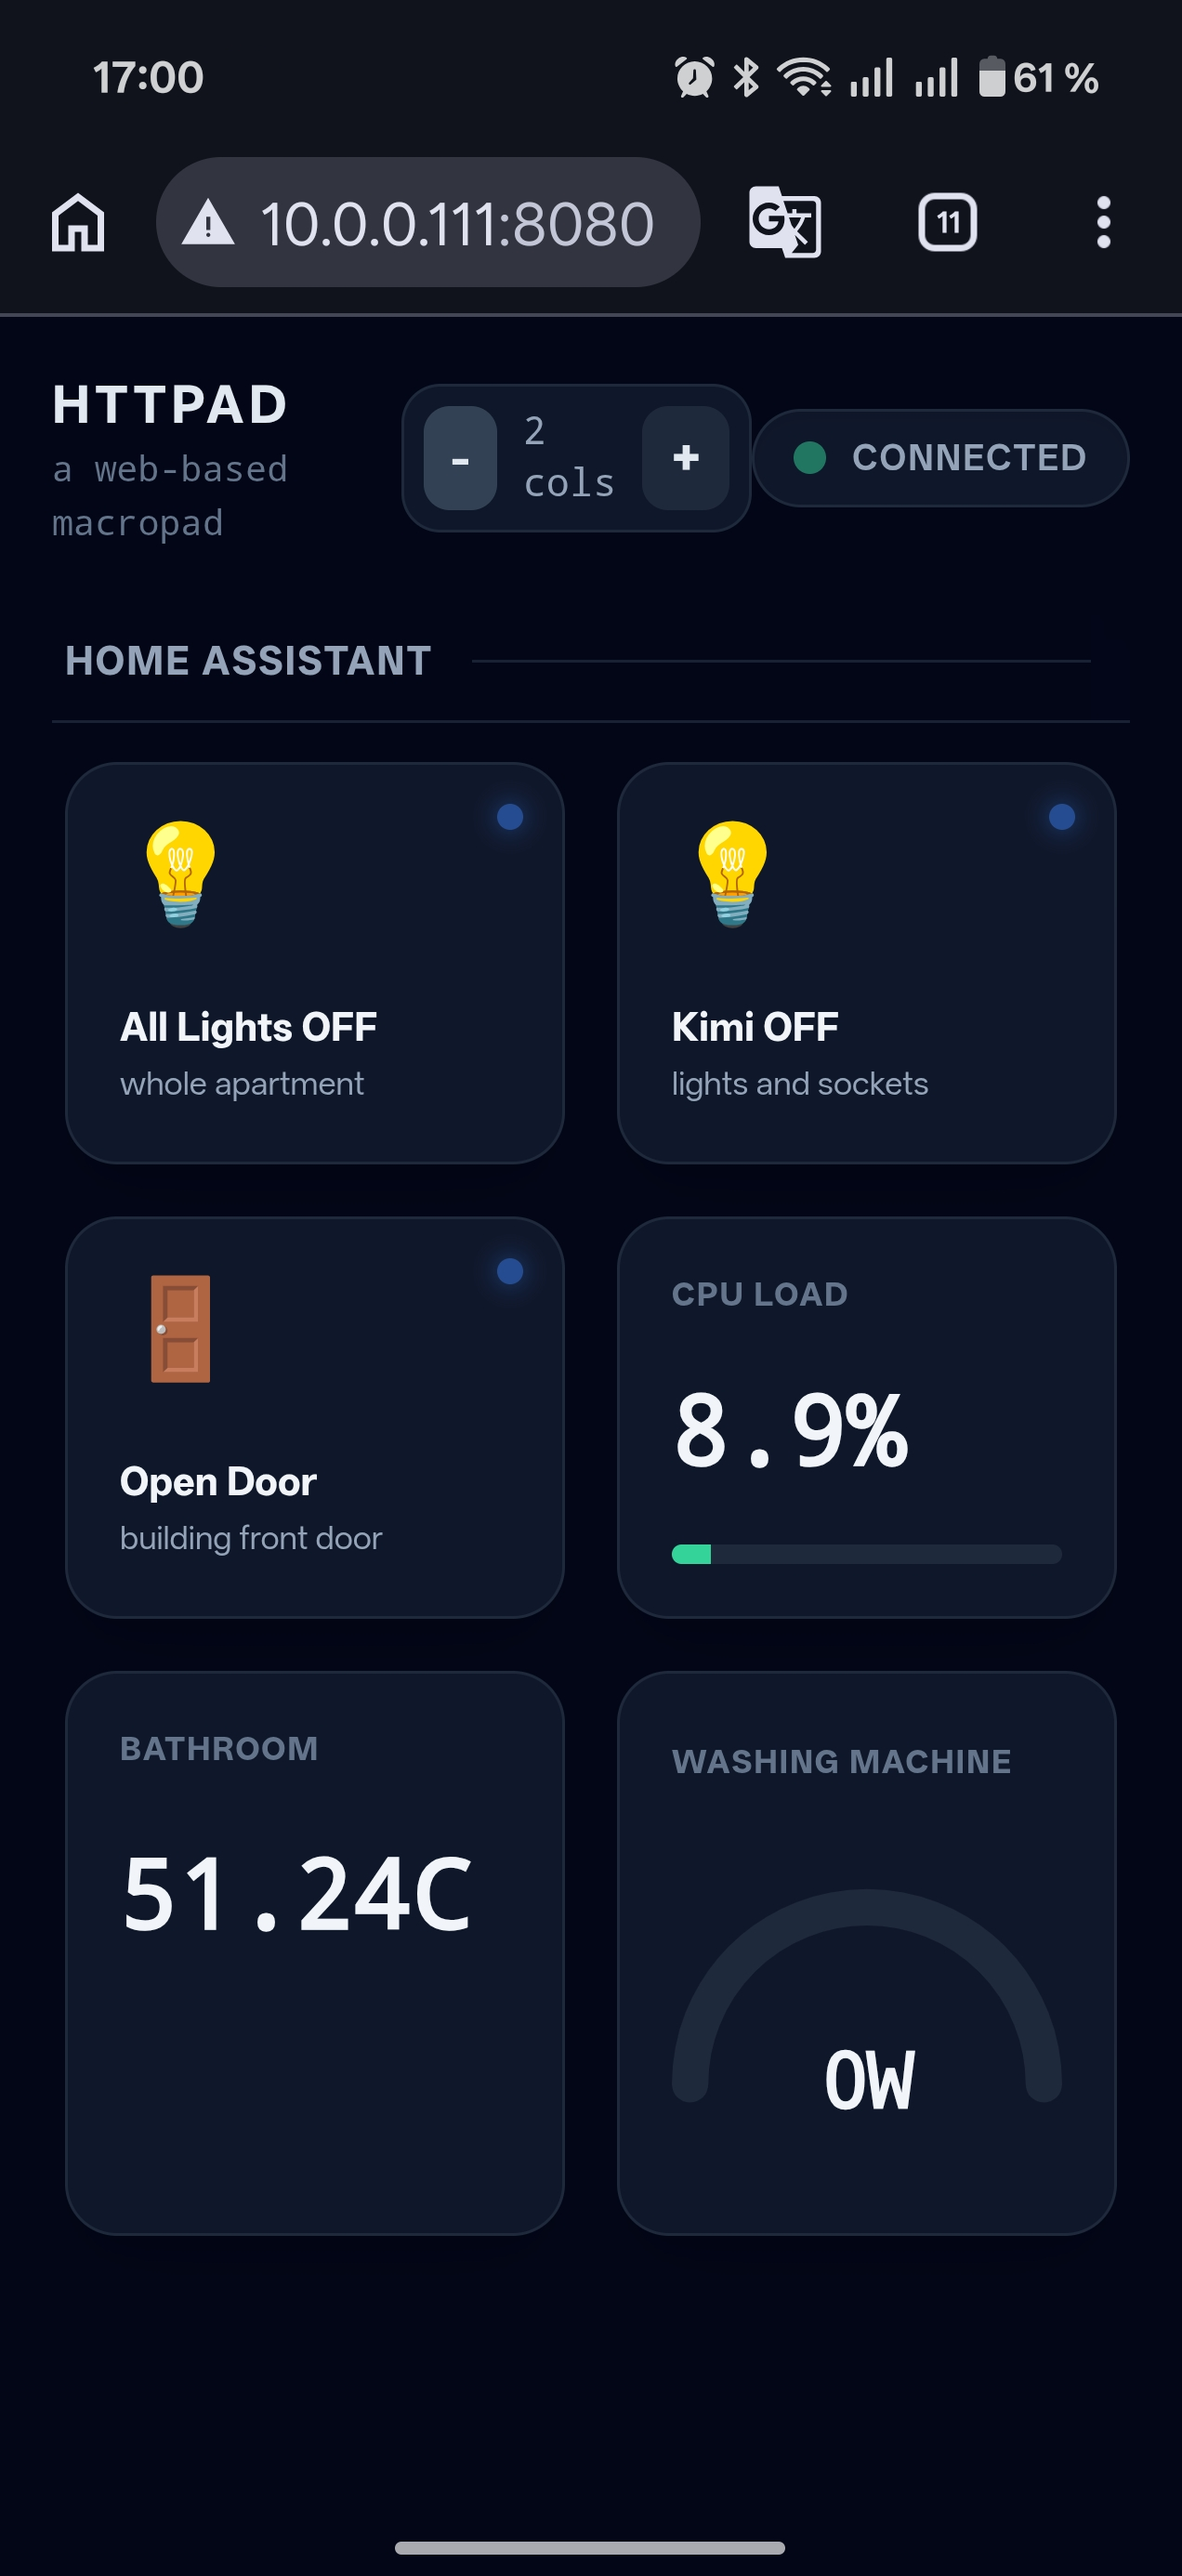
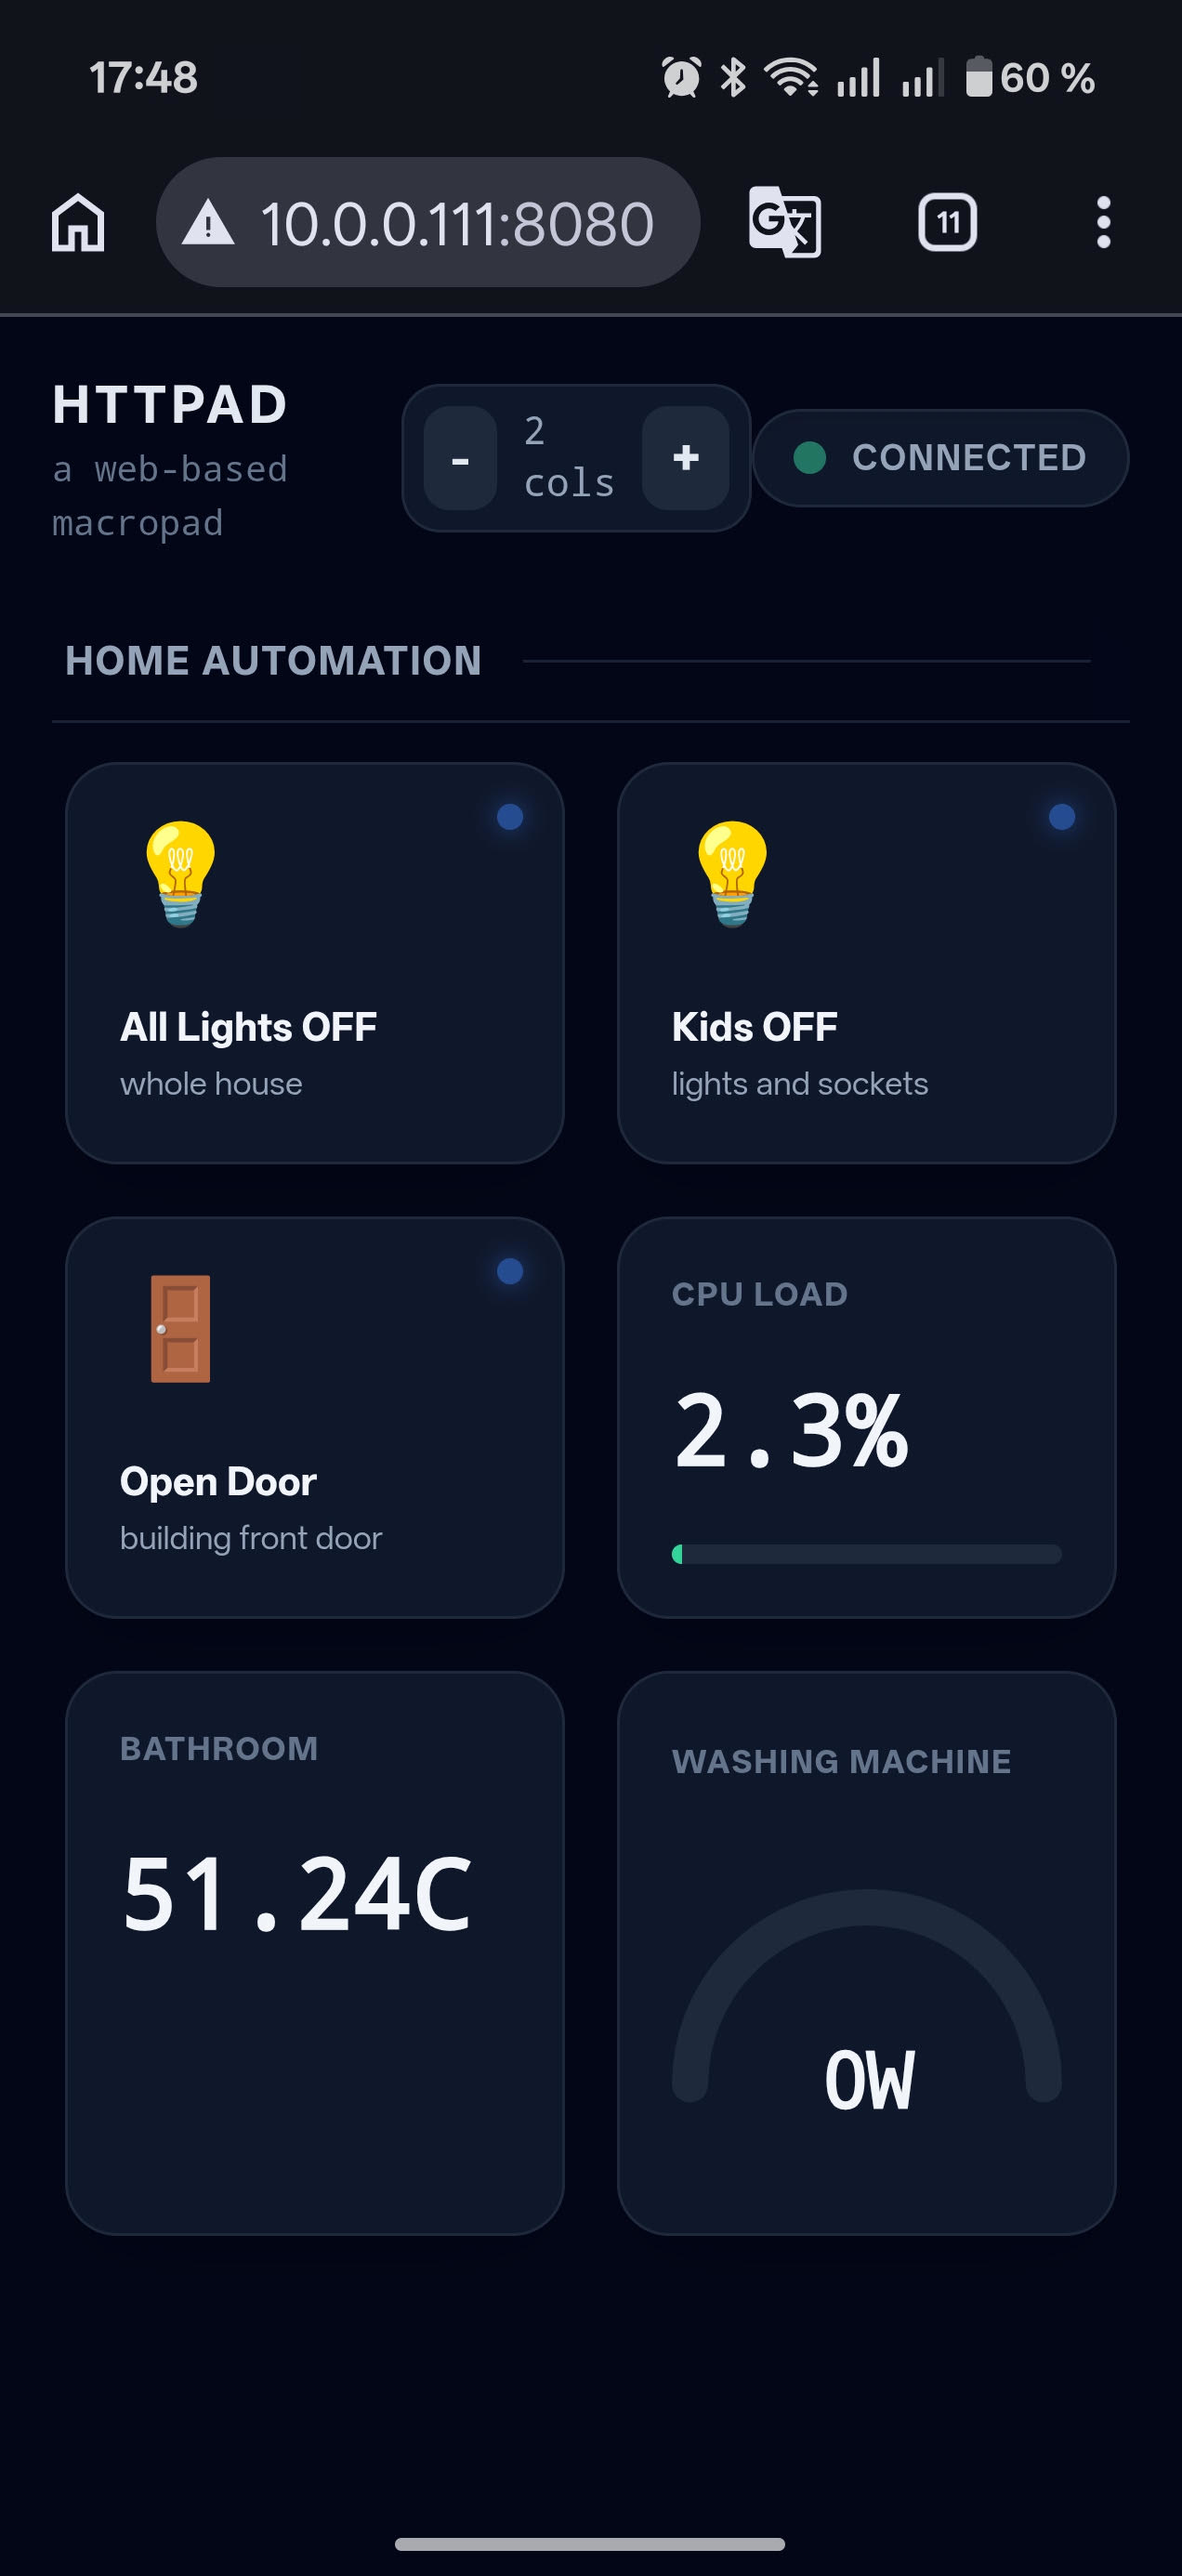
Better config example

diff --git a/README.md b/README.md
@@ -104,11 +104,11 @@ The following is an example (and just an example):
              :title "Home"
              :buttons [{:id :all-lights-off
                         :title "All Lights OFF"
-                        :desc "whole apartment"
+                        :desc "whole house"
                         :icon "💡"
                         :cmd {:type :mqtt
                               :topic "macro/all-lights-off"}}
-                       {:id :all-kimi-off
+                       {:id :all-kids-off
                         :title "Kids OFF"
                         :desc "lights and sockets"
                         :icon "💡"
@@ -116,7 +116,7 @@ The following is an example (and just an example):
                               :topic "macro/all-kids-off"}}
                        {:id :open-door
                         :title "Open Door"
-                        :desc "building front door"
+                        :desc "front door"
                         :icon "🚪"
                         :cmd {:type :mqtt
                               :topic "macro/open-door"}}
